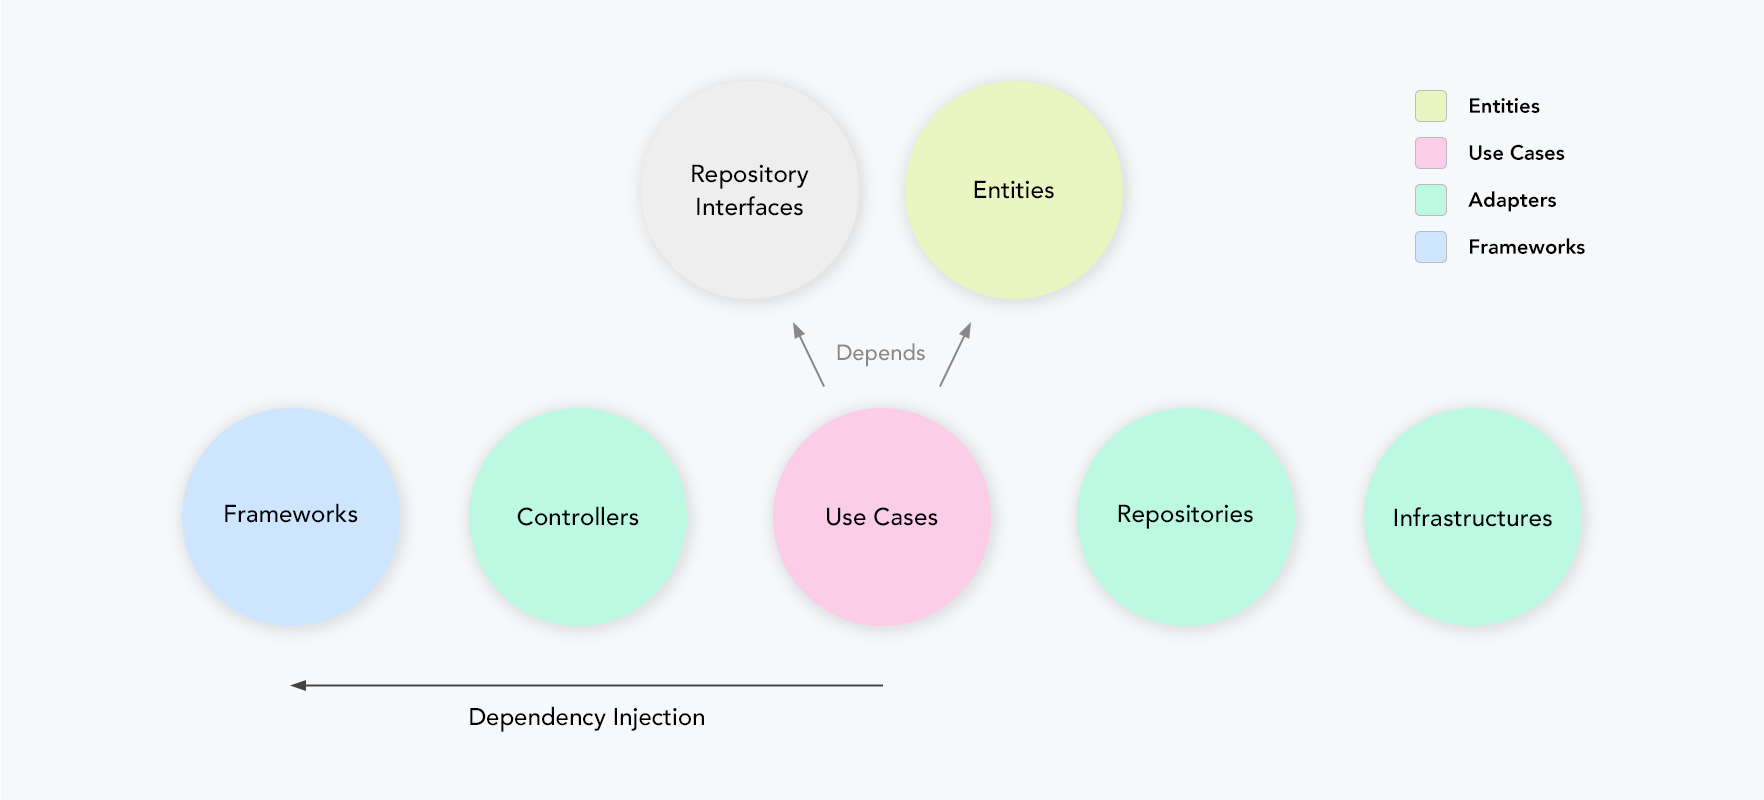
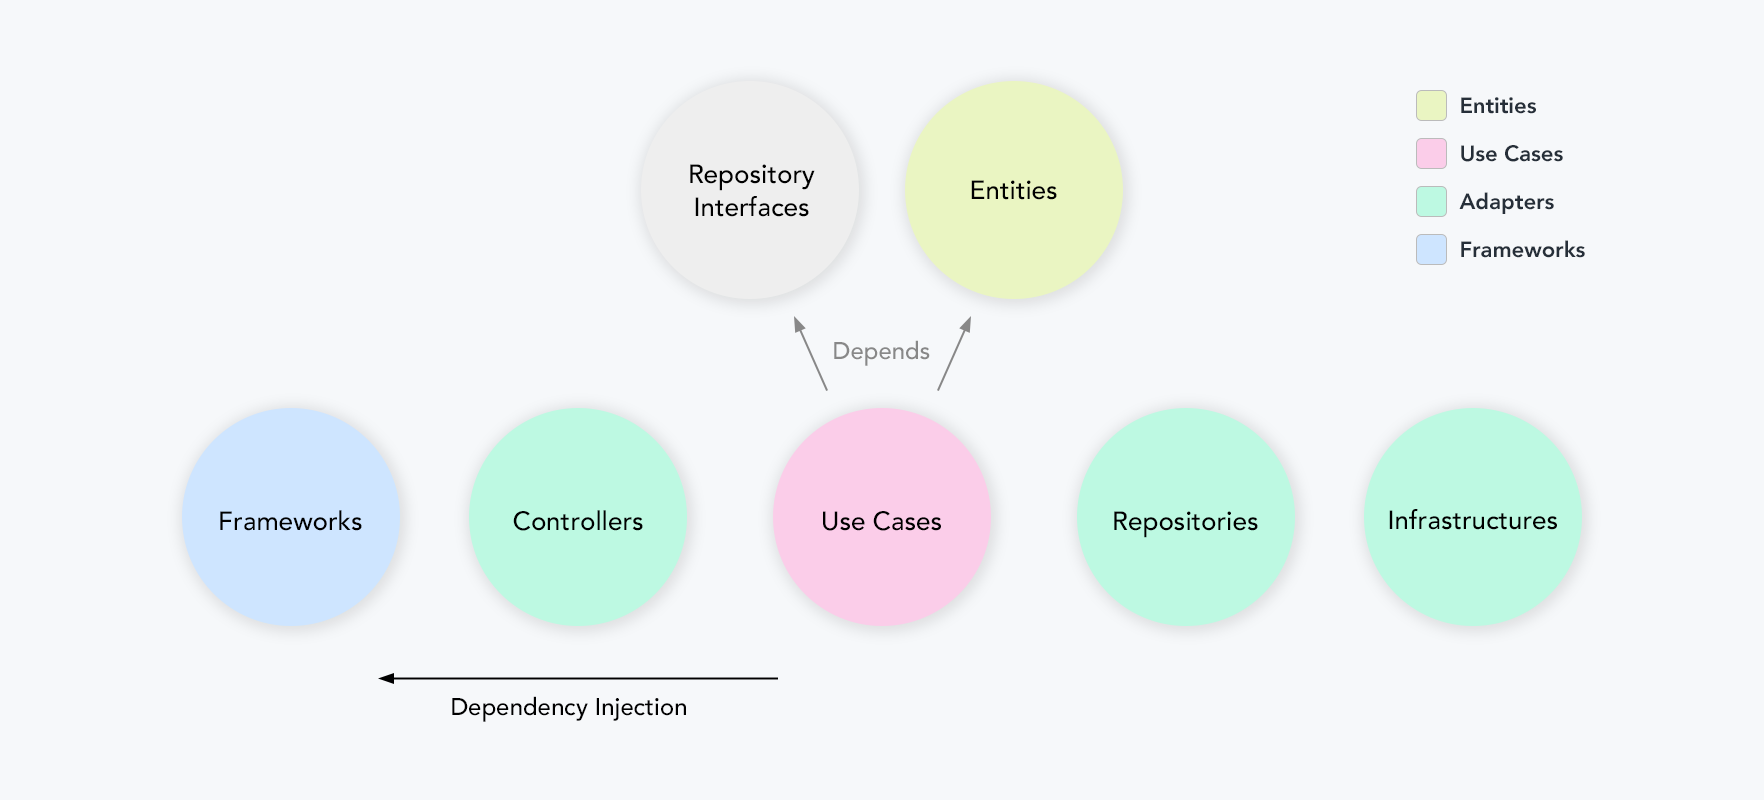
feat: add image dark mode compatibility

diff --git a/README.md b/README.md
@@ -6,13 +6,16 @@ It is an extended version of the `React with Clean Architecture` project, which 
 > (React with Clean Architecture)  
 > https://github.com/falsy/clean-architecture-with-typescript/tree/v2.0.0
 
-## Language
+## Languages
 
-[🇺🇲](https://github.com/falsy/clean-architecture-with-typescript) [🇰🇷](https://github.com/falsy/clean-architecture-with-typescript/blob/main/README-ko.md)
+- [English](https://github.com/falsy/clean-architecture-with-typescript)
+- [한글](https://github.com/falsy/clean-architecture-with-typescript/blob/main/README-ko.md)
 
 # Clean Architecture
 
-![Alt Clean architecture](/_images/clean-architecture.png)
+![Alt Clean architecture](/_images/clean-architecture.png#gh-light-mode-only)
+![Alt Clean architecture](/_images/clean-architecture-dark.png#gh-dark-mode-only)
+
 As with many architectures, the primary goal of Clean Architecture is to separate concerns. It divides layers according to each concern, designs around the domain rather than detailed implementations, and ensures the inner layers do not depend on external elements like frameworks, databases, or UIs.
 
 - Separate the detailed implementation area and the domain area.
@@ -22,7 +25,9 @@ As with many architectures, the primary goal of Clean Architecture is to separat
 
 ## Communitaction Flow
 
-![Alt Communitaction Flow](/_images/communication-flow.png)
+![Alt Communitaction Flow](/_images/communication-flow.png#gh-light-mode-only)
+![Alt Communitaction Flow](/_images/communication-flow-dark.png#gh-dark-mode-only)
+
 The flow of Clean Architecture can be briefly illustrated in the diagram above.
 
 ## Example
@@ -35,7 +40,8 @@ This document uses the [`Parcel Tracking`](https://github.com/parcel-tracking) s
 Various services sharing the same domain were organized using `Git` submodules.  
 The `core` repository of the domain area is composed, and the remaining services are configured using this `core` repository as a submodule.
 
-![Alt Configuration](/_images/configuration.png)
+![Alt Configuration](/_images/configuration.png#gh-light-mode-only)
+![Alt Configuration](/_images/configuration-dark.png#gh-dark-mode-only)
 
 In the `example project`, there are three repositories: `core-dev` for developing and testing the core, `api-server` for the API server, and `extension-for-whale` for the extension client's code.  
 All these repositories use the `core` repository as a submodule.
@@ -74,13 +80,13 @@ Based on the above service definitions, we define the entities.
 
 ```ts
 interface ICarrier {
-  readonly id: string
-  readonly no: number // (Legacy properties)
-  readonly name: string
-  readonly displayName: string
-  readonly isCrawlable: boolean
-  readonly isPopupEnabled: boolean
-  readonly popupURL: string
+  readonly id: string;
+  readonly no: number; // (Legacy properties)
+  readonly name: string;
+  readonly displayName: string;
+  readonly isCrawlable: boolean;
+  readonly isPopupEnabled: boolean;
+  readonly popupURL: string;
 }
 ```
 
@@ -88,17 +94,17 @@ interface ICarrier {
 
 ```ts
 interface ITracker {
-  readonly id: string
-  carrierId: string
-  label: string
-  trackingNumber: string
-  memos: string[]
-  updateLabel(newLabel: string): void
-  updateTrackingNumber(newTrackingNumber: string): void
-  updateCarrierId(newCarrierId: string): void
-  addMemo(): void
-  updateMemo(index: number, newMemo: string): void
-  deleteMemo(index: number): void
+  readonly id: string;
+  carrierId: string;
+  label: string;
+  trackingNumber: string;
+  memos: string[];
+  updateLabel(newLabel: string): void;
+  updateTrackingNumber(newTrackingNumber: string): void;
+  updateCarrierId(newCarrierId: string): void;
+  addMemo(): void;
+  updateMemo(index: number, newMemo: string): void;
+  deleteMemo(index: number): void;
 }
 ```
 
@@ -108,7 +114,9 @@ The `Use Case` layer encapsulates data into entities, coordinates the interactio
 
 ## Inversion of Control
 
-![Alt Communitaction Flow](/_images/inversion-of-control.png)
+![Alt Inversion Of Control](/_images/inversion-of-control.png#gh-light-mode-only)
+![Alt Inversion Of Control](/_images/inversion-of-control-dark.png#gh-dark-mode-only)
+
 As the `Repository` belongs to the `Adapter` layer, the `Use Case` should not know about the `Repository`. Therefore, in the Use Case, the Repository is abstracted into an interface and operates through `Dependency Injection`.
 
 ## Repository interfaces
@@ -155,7 +163,8 @@ The directory structure is composed of core(domains), imported as a submodule us
 
 The architecture of Clean Architecture should not depend on the framework. That is, even if the framework is changed, it should be possible to apply it with minimal changes. However, since `NestJS` uses `Decorators` to compose services, each layer inevitably depends on them.
 
-![Alt Nestjs Dependency Injection](/_images/nestjs-dependency-injection.png)
+![Alt Nestjs Dependency Injection](/_images/nestjs-dependency-injection.png#gh-light-mode-only)
+![Alt Nestjs Dependency Injection](/_images/nestjs-dependency-injection-dark.png#gh-dark-mode-only)
 
 Therefore, the operations are implemented in the `adapters` layer, which does not depend on NestJS, and the `frameworks` layer inherits from the parent (`controllers`, `usecases`, ...) to add `decorators`, override methods, and call the parent's implementation using `super`.
 
@@ -201,7 +210,8 @@ Adding another service later can be configured similarly without significant dif
 
 In the web service, `ClientHTTP`, providing HTTP communication functions, and `WebLocalStorage`, providing the browser's storage function, are defined in Infrastructures and injected into Repositories. These ultimately operate by injecting `fetch` and `localStorage`, respectively.
 
-![Alt Web API](/_images/web-api.png)
+![Alt Web API](/_images/web-api.png#gh-light-mode-only)
+![Alt Web API](/_images/web-api-dark.png#gh-dark-mode-only)
 
 #### Note.
 
@@ -297,4 +307,4 @@ We are always looking for new ideas and suggestions to improve and expand this p
 
 # Thank You!
 
-Thank you for your interest despite the shortcomings of this document. 🙇♂
+I'm grateful for all the support and interest 🙇♂
